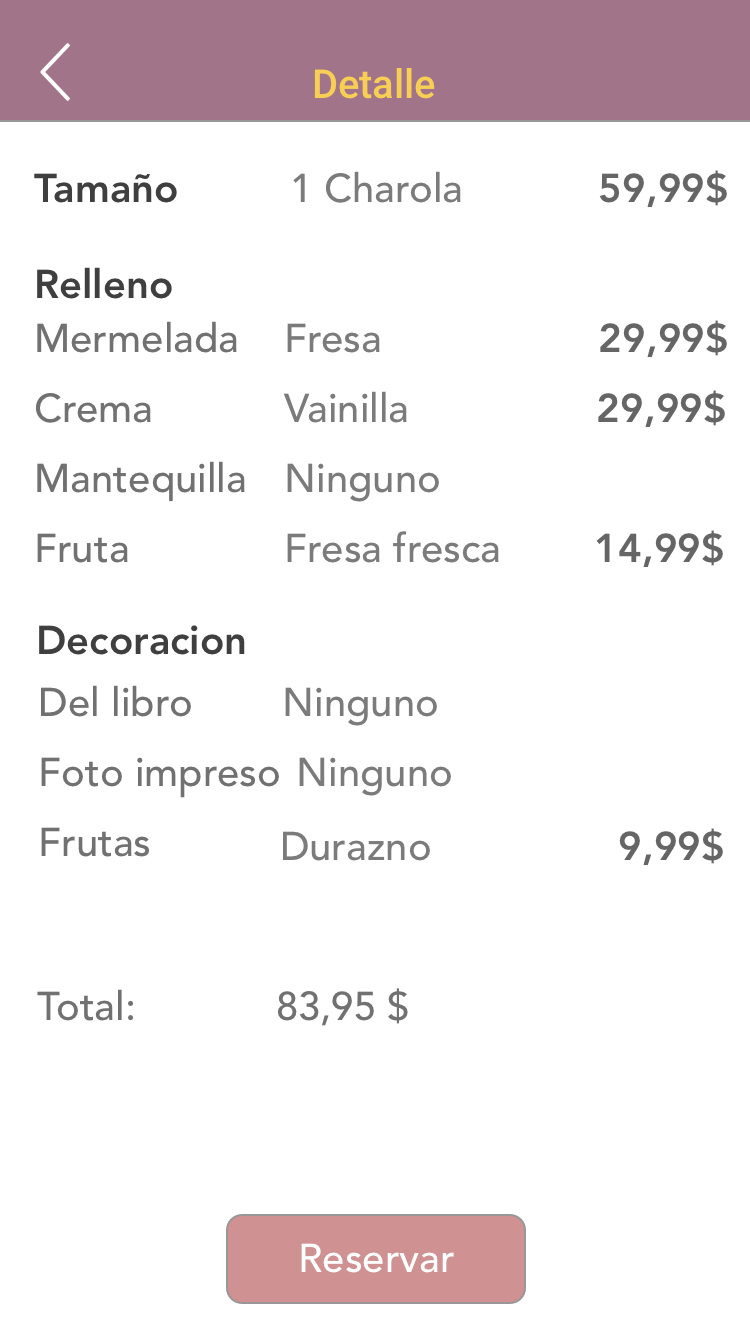
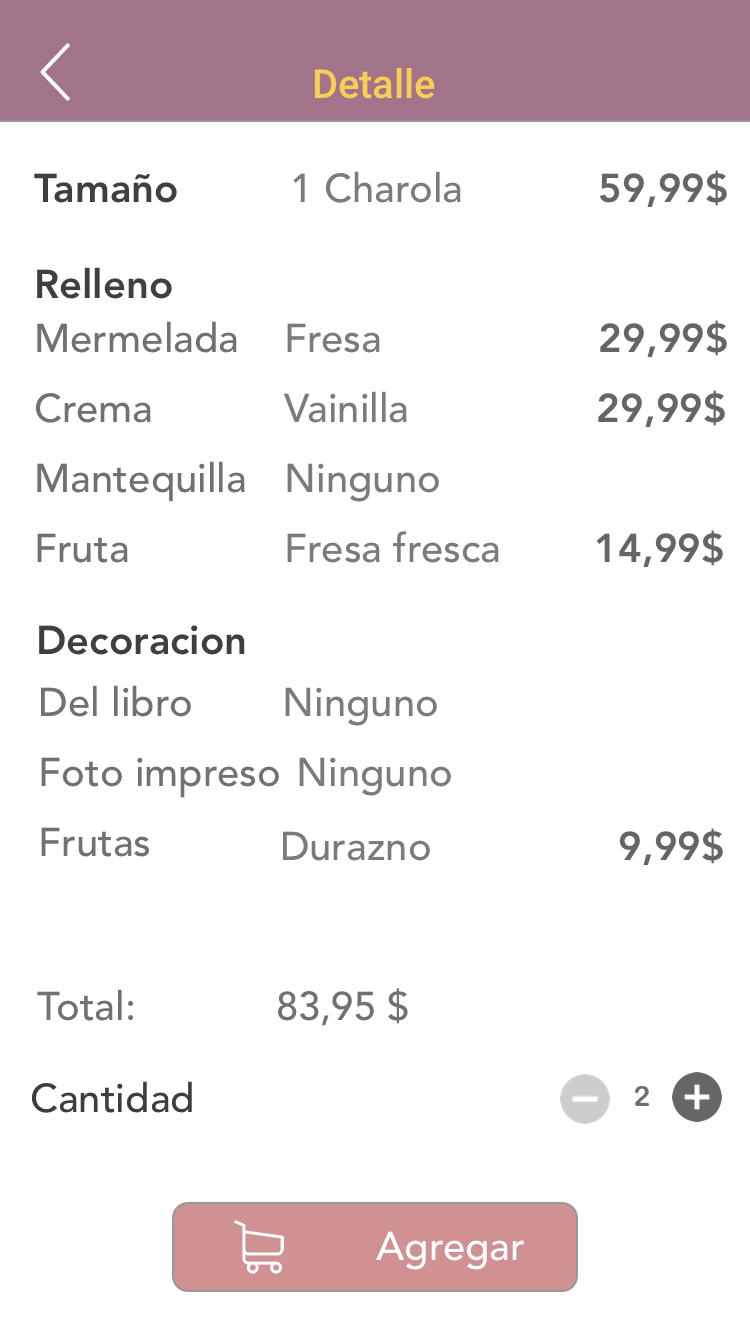
update cake orders

diff --git a/docs/cakeReserve/cakes.html b/docs/cakeReserve/cakes.html
@@ -6,6 +6,7 @@
 <style>
 #main-artboard-container { width: 375px; display: block }
 #main-artboard-image { width: 375px; height: 748px; background: url("images/cakes.png") no-repeat; }
+body { background-color: #ffffff }
 @media (-webkit-min-device-pixel-ratio: 2), (min--moz-device-pixel-ratio: 2), (-o-min-device-pixel-ratio: 2/1), (min-resolution: 192dpi), (min-resolution: 2dppx) {
   #main-artboard-image { background-image: url("images/cakes@2x.png"); background-size: 375px 748px; }
 }
@@ -16,11 +17,14 @@
 <main>
   <div id="main-artboard-container" class="artboard-container">
     <div id="main-artboard-image" class="artboard-image"></div>
-    <a href="opciones.html" class="hotspot" style="left:301px; top:32px; width:64px; height:19px"></a>
+    <a href="configurarreserva.html" class="hotspot" style="left:333px; top:14px; width:30px; height:36px"></a>
+    <a href="shopping.html" class="hotspot" style="left:13px; top:18px; width:30px; height:32px"></a>
     <a href="cakedetail.html" class="hotspot" style="left:0px; top:60px; width:375px; height:217px"></a>
-    <a href="chat.html" class="hotspot" style="left:100px; top:287px; width:49px; height:22px"></a>
-    <a href="cakedetail.html" class="hotspot" style="left:0px; top:428px; width:375px; height:217px"></a>
-    <a href="chat.html" class="hotspot" style="left:100px; top:655px; width:49px; height:22px"></a>
+    <a href="chat.html" class="hotspot" style="left:100px; top:287px; width:23px; height:22px"></a>
+    <a href="cakedetail.html" class="hotspot" style="left:0px; top:358px; width:375px; height:217px"></a>
+    <a href="chat.html" class="hotspot" style="left:100px; top:585px; width:23px; height:22px"></a>
+    <a href="cakedetail.html" class="hotspot" style="left:0px; top:656px; width:375px; height:217px"></a>
+    <a href="chat.html" class="hotspot" style="left:100px; top:883px; width:23px; height:22px"></a>
   </div>
 </main>
 </body>

diff --git a/docs/cakeReserve/agradecimiento.html b/docs/cakeReserve/agradecimiento.html
@@ -1,14 +1,14 @@
 <!DOCTYPE html>
 <head>
-<title>ConfigurarReserva</title>
+<title>Agradecimiento</title>
 <meta name="viewport" content="width=device-width, minimum-scale=1.0, maximum-scale=1.0" />
 <link href="css/main.css" rel="stylesheet" type="text/css"/>
 <style>
 #main-artboard-container { width: 375px; display: block }
-#main-artboard-image { width: 375px; height: 2014px; background: url("images/configurarreserva.png") no-repeat; }
+#main-artboard-image { width: 375px; height: 667px; background: url("images/agradecimiento.png") no-repeat; }
 body { background-color: #ffffff }
 @media (-webkit-min-device-pixel-ratio: 2), (min--moz-device-pixel-ratio: 2), (-o-min-device-pixel-ratio: 2/1), (min-resolution: 192dpi), (min-resolution: 2dppx) {
-  #main-artboard-image { background-image: url("images/configurarreserva@2x.png"); background-size: 375px 2014px; }
+  #main-artboard-image { background-image: url("images/agradecimiento@2x.png"); background-size: 375px 667px; }
 }
 </style>
 <script src="js/main.js" type="text/javascript"></script>
@@ -17,8 +17,9 @@ body { background-color: #ffffff }
 <main>
   <div id="main-artboard-container" class="artboard-container">
     <div id="main-artboard-image" class="artboard-image"></div>
-    <a href="cakes.html" class="hotspot" style="left:20px; top:22px; width:15px; height:29px"></a>
-    <a href="cakes.html" class="hotspot" style="left:86px; top:1942px; width:203px; height:45px"></a>
+    <a href="reserva.html" class="hotspot" style="left:90px; top:529px; width:203px; height:45px"></a>
+    <a href="reserva.html" class="hotspot" style="left:90px; top:605px; width:203px; height:45px"></a>
+    <a href="cakes.html" class="hotspot" style="left:96px; top:445px; width:183px; height:40px"></a>
   </div>
 </main>
 </body>

diff --git a/docs/cakeReserve/ordenprogress.html b/docs/cakeReserve/ordenprogress.html
@@ -1,14 +1,14 @@
 <!DOCTYPE html>
 <head>
-<title>ConfigurarReserva</title>
+<title>OrdenProgress</title>
 <meta name="viewport" content="width=device-width, minimum-scale=1.0, maximum-scale=1.0" />
 <link href="css/main.css" rel="stylesheet" type="text/css"/>
 <style>
 #main-artboard-container { width: 375px; display: block }
-#main-artboard-image { width: 375px; height: 2014px; background: url("images/configurarreserva.png") no-repeat; }
+#main-artboard-image { width: 375px; height: 667px; background: url("images/ordenprogress.png") no-repeat; }
 body { background-color: #ffffff }
 @media (-webkit-min-device-pixel-ratio: 2), (min--moz-device-pixel-ratio: 2), (-o-min-device-pixel-ratio: 2/1), (min-resolution: 192dpi), (min-resolution: 2dppx) {
-  #main-artboard-image { background-image: url("images/configurarreserva@2x.png"); background-size: 375px 2014px; }
+  #main-artboard-image { background-image: url("images/ordenprogress@2x.png"); background-size: 375px 667px; }
 }
 </style>
 <script src="js/main.js" type="text/javascript"></script>
@@ -17,8 +17,8 @@ body { background-color: #ffffff }
 <main>
   <div id="main-artboard-container" class="artboard-container">
     <div id="main-artboard-image" class="artboard-image"></div>
-    <a href="cakes.html" class="hotspot" style="left:20px; top:22px; width:15px; height:29px"></a>
-    <a href="cakes.html" class="hotspot" style="left:86px; top:1942px; width:203px; height:45px"></a>
+    <a href="cakes.html" class="hotspot" style="left:90px; top:529px; width:203px; height:45px"></a>
+    <a href="agradecimiento.html" class="hotspot" style="left:90px; top:605px; width:203px; height:45px"></a>
   </div>
 </main>
 </body>

diff --git a/docs/cakeReserve/cakeinfo.html b/docs/cakeReserve/cakeinfo.html
@@ -1,14 +1,14 @@
 <!DOCTYPE html>
 <head>
-<title>ConfigurarReserva</title>
+<title>CakeInfo</title>
 <meta name="viewport" content="width=device-width, minimum-scale=1.0, maximum-scale=1.0" />
 <link href="css/main.css" rel="stylesheet" type="text/css"/>
 <style>
 #main-artboard-container { width: 375px; display: block }
-#main-artboard-image { width: 375px; height: 2014px; background: url("images/configurarreserva.png") no-repeat; }
+#main-artboard-image { width: 375px; height: 667px; background: url("images/cakeinfo.png") no-repeat; }
 body { background-color: #ffffff }
 @media (-webkit-min-device-pixel-ratio: 2), (min--moz-device-pixel-ratio: 2), (-o-min-device-pixel-ratio: 2/1), (min-resolution: 192dpi), (min-resolution: 2dppx) {
-  #main-artboard-image { background-image: url("images/configurarreserva@2x.png"); background-size: 375px 2014px; }
+  #main-artboard-image { background-image: url("images/cakeinfo@2x.png"); background-size: 375px 667px; }
 }
 </style>
 <script src="js/main.js" type="text/javascript"></script>
@@ -17,8 +17,7 @@ body { background-color: #ffffff }
 <main>
   <div id="main-artboard-container" class="artboard-container">
     <div id="main-artboard-image" class="artboard-image"></div>
-    <a href="cakes.html" class="hotspot" style="left:20px; top:22px; width:15px; height:29px"></a>
-    <a href="cakes.html" class="hotspot" style="left:86px; top:1942px; width:203px; height:45px"></a>
+    <a href="cakedetail.html" class="hotspot" style="left:20px; top:22px; width:15px; height:29px"></a>
   </div>
 </main>
 </body>

diff --git a/docs/cakeReserve/shopping.html b/docs/cakeReserve/shopping.html
@@ -1,14 +1,14 @@
 <!DOCTYPE html>
 <head>
-<title>ConfigurarReserva</title>
+<title>Shopping</title>
 <meta name="viewport" content="width=device-width, minimum-scale=1.0, maximum-scale=1.0" />
 <link href="css/main.css" rel="stylesheet" type="text/css"/>
 <style>
 #main-artboard-container { width: 375px; display: block }
-#main-artboard-image { width: 375px; height: 2014px; background: url("images/configurarreserva.png") no-repeat; }
+#main-artboard-image { width: 375px; height: 667px; background: url("images/shopping.png") no-repeat; }
 body { background-color: #ffffff }
 @media (-webkit-min-device-pixel-ratio: 2), (min--moz-device-pixel-ratio: 2), (-o-min-device-pixel-ratio: 2/1), (min-resolution: 192dpi), (min-resolution: 2dppx) {
-  #main-artboard-image { background-image: url("images/configurarreserva@2x.png"); background-size: 375px 2014px; }
+  #main-artboard-image { background-image: url("images/shopping@2x.png"); background-size: 375px 667px; }
 }
 </style>
 <script src="js/main.js" type="text/javascript"></script>
@@ -18,7 +18,7 @@ body { background-color: #ffffff }
   <div id="main-artboard-container" class="artboard-container">
     <div id="main-artboard-image" class="artboard-image"></div>
     <a href="cakes.html" class="hotspot" style="left:20px; top:22px; width:15px; height:29px"></a>
-    <a href="cakes.html" class="hotspot" style="left:86px; top:1942px; width:203px; height:45px"></a>
+    <a href="ordenprogress.html" class="hotspot" style="left:86px; top:600px; width:203px; height:45px"></a>
   </div>
 </main>
 </body>

diff --git a/docs/cakeReserve/cakedetail.html b/docs/cakeReserve/cakedetail.html
@@ -5,9 +5,10 @@
 <link href="css/main.css" rel="stylesheet" type="text/css"/>
 <style>
 #main-artboard-container { width: 375px; display: block }
-#main-artboard-image { width: 375px; height: 953px; background: url("images/cakedetail.png") no-repeat; }
+#main-artboard-image { width: 375px; height: 667px; background: url("images/cakedetail.png") no-repeat; }
+body { background-color: #ffffff }
 @media (-webkit-min-device-pixel-ratio: 2), (min--moz-device-pixel-ratio: 2), (-o-min-device-pixel-ratio: 2/1), (min-resolution: 192dpi), (min-resolution: 2dppx) {
-  #main-artboard-image { background-image: url("images/cakedetail@2x.png"); background-size: 375px 953px; }
+  #main-artboard-image { background-image: url("images/cakedetail@2x.png"); background-size: 375px 667px; }
 }
 </style>
 <script src="js/main.js" type="text/javascript"></script>
@@ -17,7 +18,8 @@
   <div id="main-artboard-container" class="artboard-container">
     <div id="main-artboard-image" class="artboard-image"></div>
     <a href="cakes.html" class="hotspot" style="left:20px; top:22px; width:15px; height:29px"></a>
-    <a href="reserva.html" class="hotspot" style="left:113px; top:889px; width:150px; height:45px"></a>
+    <a href="cakeinfo.html" class="hotspot" style="left:117px; top:426px; width:142px; height:23px"></a>
+    <a href="cakes.html" class="hotspot" style="left:86px; top:494px; width:203px; height:45px"></a>
   </div>
 </main>
 </body>

diff --git a/docs/cakeReserve/detalletorta.html b/docs/cakeReserve/detalletorta.html
@@ -6,6 +6,7 @@
 <style>
 #main-artboard-container { width: 375px; display: block }
 #main-artboard-image { width: 375px; height: 667px; background: url("images/detalletorta.png") no-repeat; }
+body { background-color: #ffffff }
 @media (-webkit-min-device-pixel-ratio: 2), (min--moz-device-pixel-ratio: 2), (-o-min-device-pixel-ratio: 2/1), (min-resolution: 192dpi), (min-resolution: 2dppx) {
   #main-artboard-image { background-image: url("images/detalletorta@2x.png"); background-size: 375px 667px; }
 }
@@ -17,7 +18,7 @@
   <div id="main-artboard-container" class="artboard-container">
     <div id="main-artboard-image" class="artboard-image"></div>
     <a href="opciones.html" class="hotspot" style="left:20px; top:22px; width:15px; height:29px"></a>
-    <a href="reserva.html" class="hotspot" style="left:113px; top:607px; width:150px; height:45px"></a>
+    <a href="reserva.html" class="hotspot" style="left:86px; top:601px; width:203px; height:45px"></a>
   </div>
 </main>
 </body>

diff --git a/docs/cakeReserve/detalle.html b/docs/cakeReserve/detalle.html
@@ -6,6 +6,7 @@
 <style>
 #main-artboard-container { width: 375px; display: block }
 #main-artboard-image { width: 375px; height: 667px; background: url("images/detalle.png") no-repeat; }
+body { background-color: #ffffff }
 @media (-webkit-min-device-pixel-ratio: 2), (min--moz-device-pixel-ratio: 2), (-o-min-device-pixel-ratio: 2/1), (min-resolution: 192dpi), (min-resolution: 2dppx) {
   #main-artboard-image { background-image: url("images/detalle@2x.png"); background-size: 375px 667px; }
 }
@@ -17,7 +18,7 @@
   <div id="main-artboard-container" class="artboard-container">
     <div id="main-artboard-image" class="artboard-image"></div>
     <a href="configurarreserva.html" class="hotspot" style="left:20px; top:22px; width:15px; height:29px"></a>
-    <a href="reserva.html" class="hotspot" style="left:113px; top:607px; width:150px; height:45px"></a>
+    <a href="reserva.html" class="hotspot" style="left:86px; top:602px; width:203px; height:45px"></a>
   </div>
 </main>
 </body>

diff --git a/docs/cakeReserve/opciones.html b/docs/cakeReserve/opciones.html
@@ -6,6 +6,7 @@
 <style>
 #main-artboard-container { width: 375px; display: block }
 #main-artboard-image { width: 375px; height: 667px; background: url("images/opciones.png") no-repeat; }
+body { background-color: #ffffff }
 @media (-webkit-min-device-pixel-ratio: 2), (min--moz-device-pixel-ratio: 2), (-o-min-device-pixel-ratio: 2/1), (min-resolution: 192dpi), (min-resolution: 2dppx) {
   #main-artboard-image { background-image: url("images/opciones@2x.png"); background-size: 375px 667px; }
 }

diff --git a/docs/cakeReserve/chat.html b/docs/cakeReserve/chat.html
@@ -6,6 +6,7 @@
 <style>
 #main-artboard-container { width: 375px; display: block }
 #main-artboard-image { width: 375px; height: 667px; background: url("images/chat.png") no-repeat; }
+body { background-color: #ffffff }
 @media (-webkit-min-device-pixel-ratio: 2), (min--moz-device-pixel-ratio: 2), (-o-min-device-pixel-ratio: 2/1), (min-resolution: 192dpi), (min-resolution: 2dppx) {
   #main-artboard-image { background-image: url("images/chat@2x.png"); background-size: 375px 667px; }
 }
